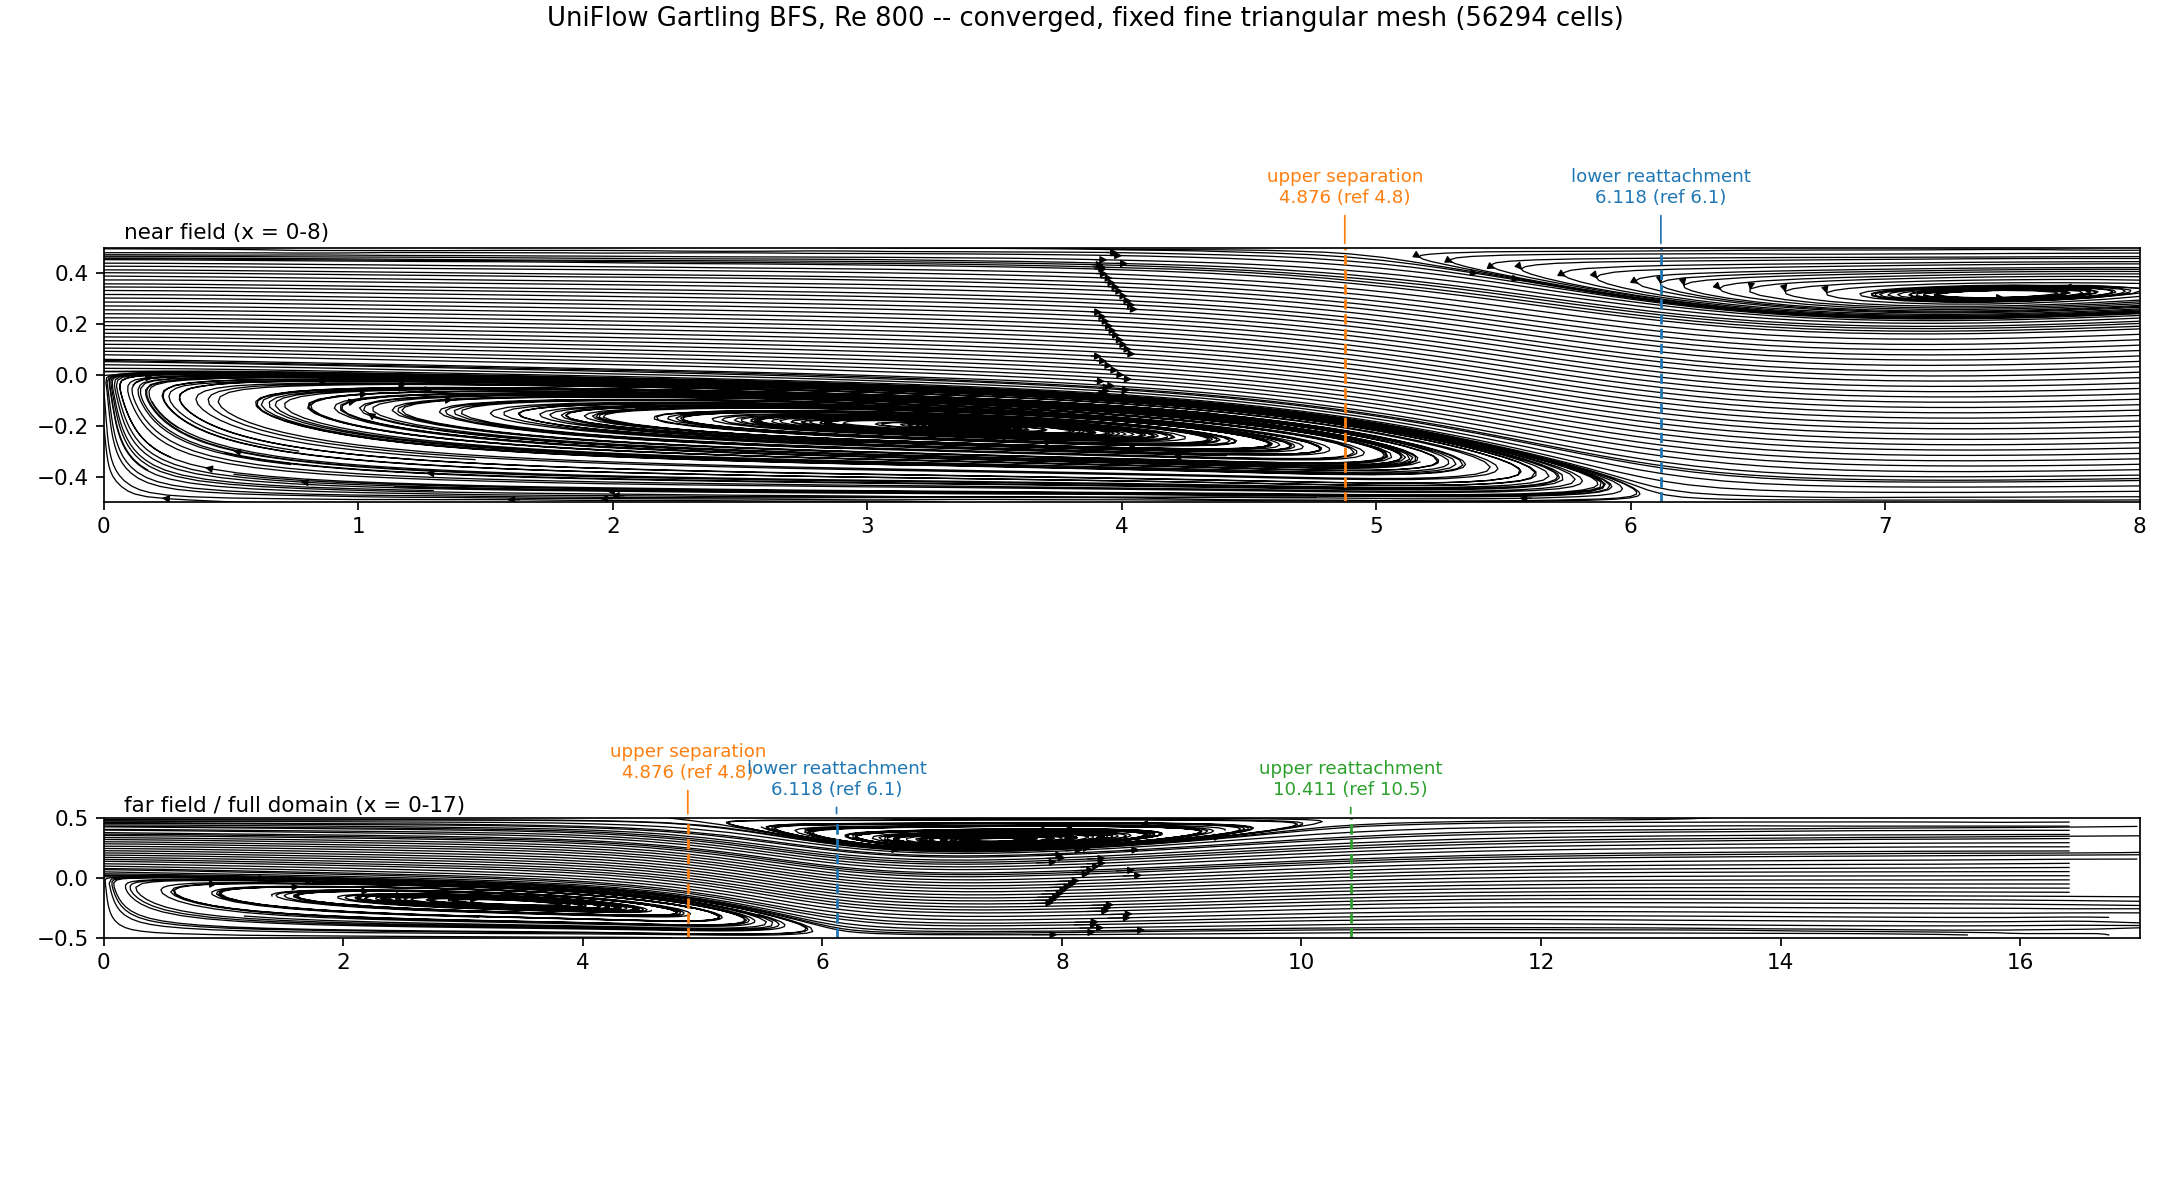
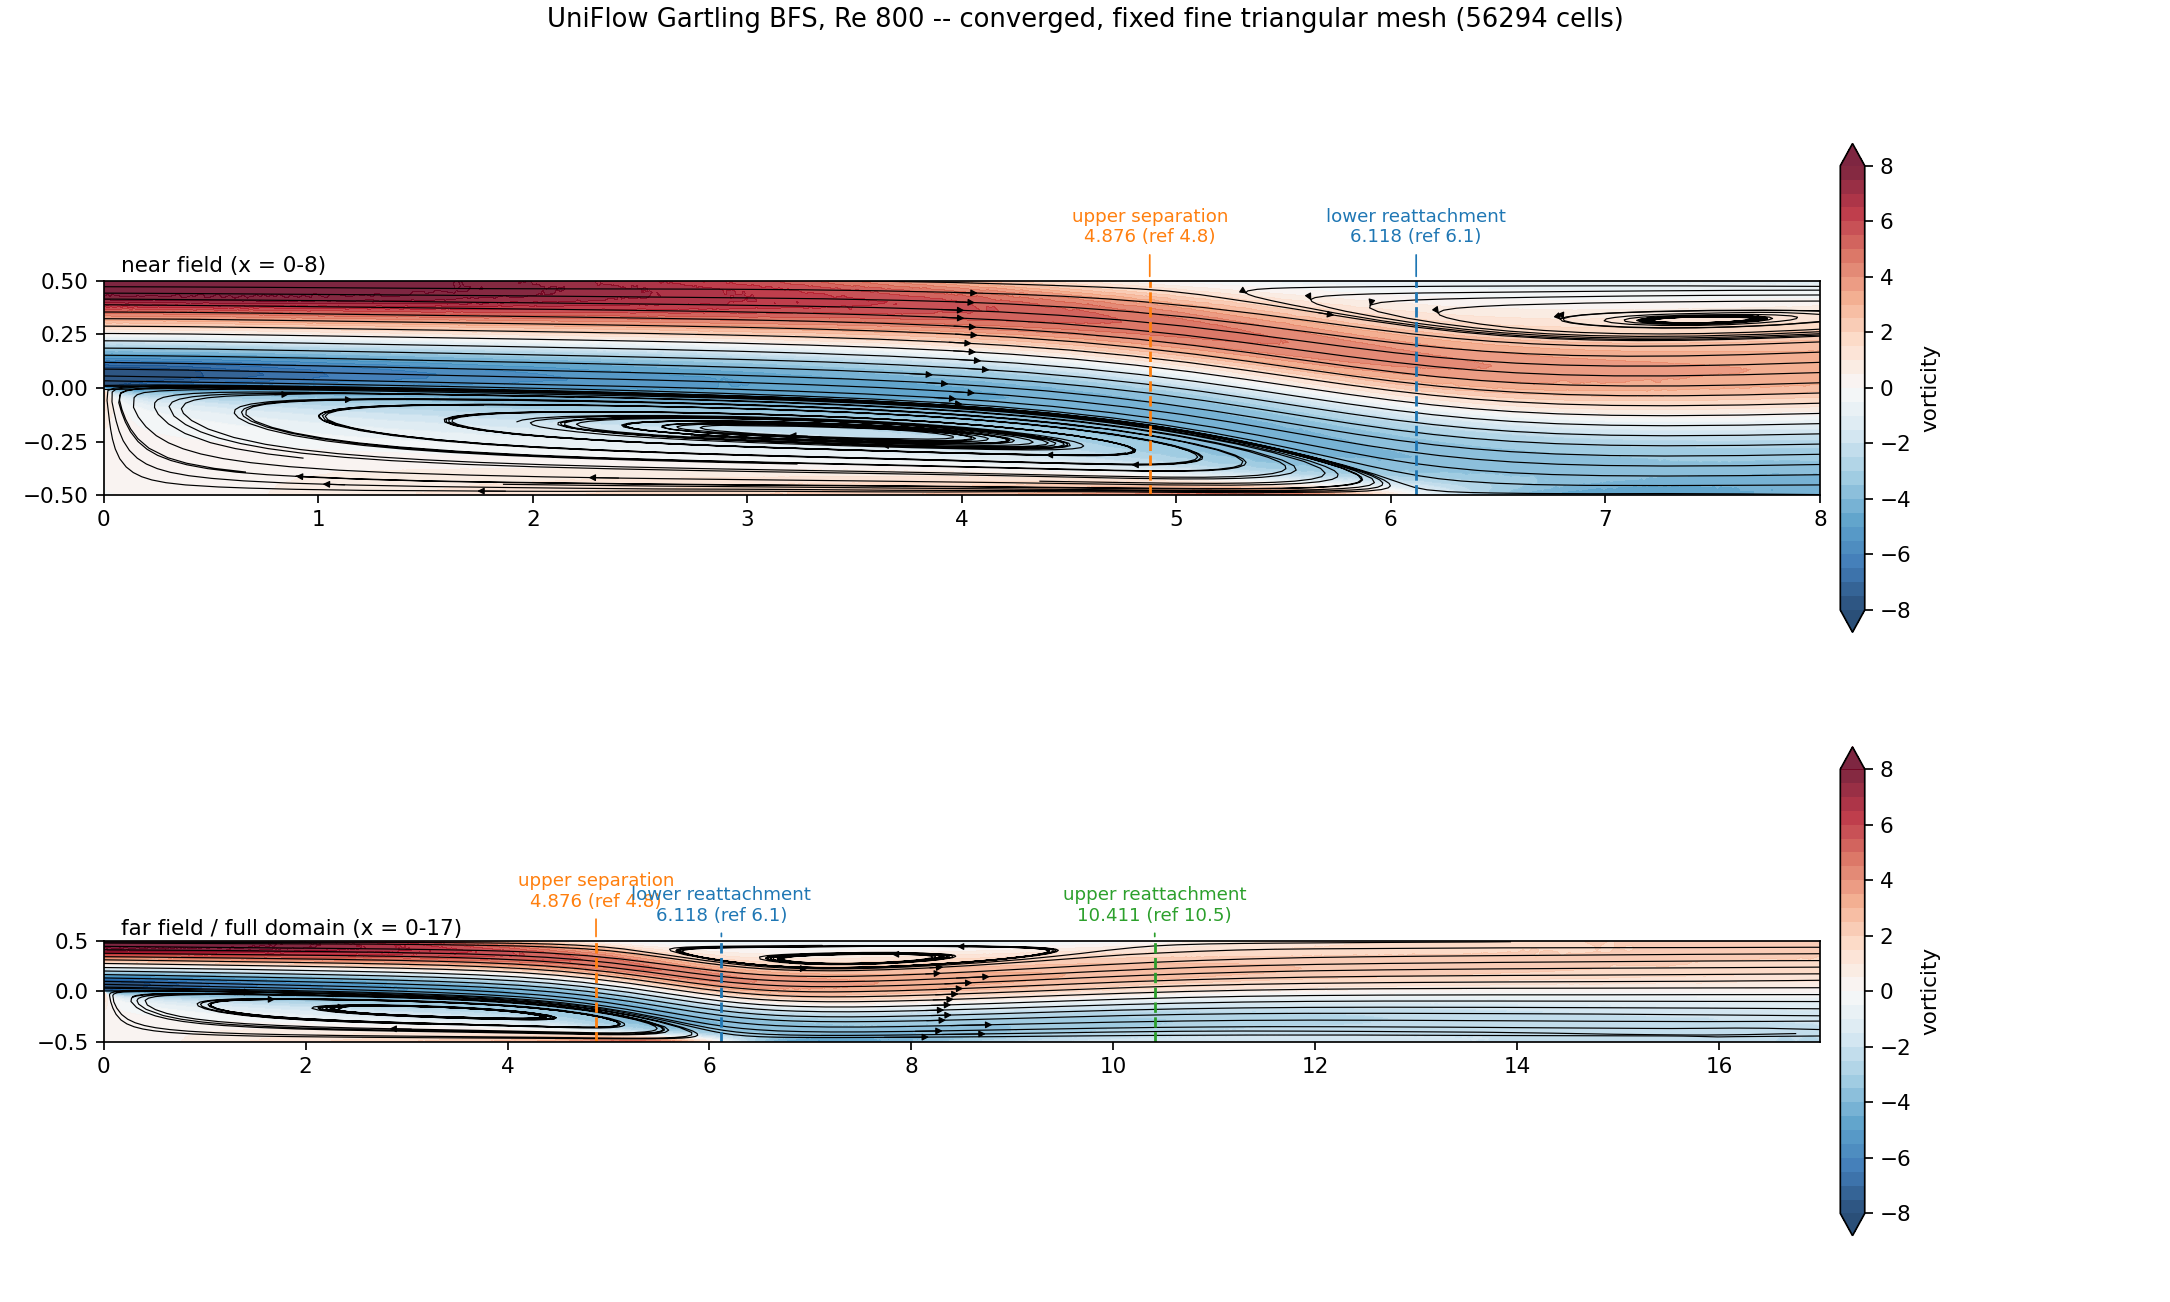
Add vorticity contours, reduce streamline density in the final BFS plot

diff --git a/plot_utility/plot_ugartling_final_streamlines.py b/plot_utility/plot_ugartling_final_streamlines.py
@@ -6,6 +6,7 @@ import matplotlib; matplotlib.use("Agg")
 import matplotlib.pyplot as plt
 from scipy.interpolate import LinearNDInterpolator
 from src.umesh import Mesh, read_gmsh22
+from src.uops import Gradient
 
 MESH = "meshes/gartling_bfs_tri_matched_fine.msh"
 FIELD = "results/ugartling_bfs_tri_matched_fine_fixed/final.npz"
@@ -16,15 +17,33 @@ d = np.load(FIELD)
 nodes, cells_raw, ctag, edges, etag, names = read_gmsh22(MESH)
 m = Mesh(nodes, cells_raw, edges, etag, names)
 u, v = d["u"], d["v"]
+cells = [c[:nv] for c, nv in zip(m.cells, m.nvert)]
+
+# vertex-averaged vorticity, same convention as the other field plots in this record
+inv = {vv: k for k, vv in names.items()}
+bt = m.btag[m.bfaces]
+yb = m.fcentre[m.bfaces][:, 1]
+uo, vo = u[m.owner[m.bfaces]], v[m.owner[m.bfaces]]
+ubv = np.where(bt == inv["Inlet"], np.clip(24.0 * yb * (0.5 - yb), 0.0, None), np.where(bt == inv["Wall"], 0.0, uo))
+vbv = np.where(bt == inv["Outlet"], vo, 0.0)
+g = Gradient(m); wc = g(v, vbv)[:, 0] - g(u, ubv)[:, 1]
+nv_ = len(nodes); ws = np.zeros(nv_); Wv = np.zeros(nv_)
+for c, vol, ww in zip(cells, m.vol, wc): ws[c] += vol; Wv[c] += vol * ww
+Wv /= ws
+import matplotlib.tri as mtri
+T = mtri.Triangulation(nodes[:, 0], nodes[:, 1], triangles=np.array(cells))
+LEV = np.linspace(-8, 8, 33)
 
 def panel(ax, xlo, xhi, density):
+    cf = ax.tricontourf(T, np.clip(Wv, LEV[0], LEV[-1]), LEV, cmap="RdBu_r", extend="both", alpha=0.85)
     x = np.linspace(xlo, xhi, int(500 * (xhi - xlo) / 17) + 300); y = np.linspace(-0.5, 0.5, 140)
     X, Y = np.meshgrid(x, y)
     Ui = LinearNDInterpolator(m.centroid, u)(X, Y); Vi = LinearNDInterpolator(m.centroid, v)(X, Y)
-    ax.streamplot(X, Y, np.nan_to_num(Ui), np.nan_to_num(Vi), color="k", density=density, linewidth=0.6, arrowsize=0.7, broken_streamlines=False)
+    ax.streamplot(X, Y, np.nan_to_num(Ui), np.nan_to_num(Vi), color="k", density=density, linewidth=0.55, arrowsize=0.65, broken_streamlines=False)
     ax.set_xlim(xlo, xhi); ax.set_ylim(-0.5, 0.5); ax.set_aspect("equal")
+    return cf
 
-fig, axes = plt.subplots(2, 1, figsize=(14, 7.6))
+fig, axes = plt.subplots(2, 1, figsize=(14, 8.4))
 
 def mark(ax, x, label, ref, color, y=1.14):
     ax.axvline(x, color=color, ls="--", lw=1.3)
@@ -33,16 +52,18 @@ def mark(ax, x, label, ref, color, y=1.14):
                 color=color, fontsize=8.5, ha="center", va="bottom",
                 arrowprops=dict(arrowstyle="-", color=color, lw=0.8))
 
-panel(axes[0], 0, 8, 1.6)
+cf0 = panel(axes[0], 0, 8, 0.75)
 mark(axes[0], UPPER_SEP, "upper separation", REF_UPPER_SEP, "C1", y=1.16)
 mark(axes[0], LOWER_REATT, "lower reattachment", REF_LOWER, "C0", y=1.16)
 axes[0].text(0.01, 1.02, "near field (x = 0-8)", transform=axes[0].transAxes, fontsize=10, va="bottom")
+plt.colorbar(cf0, ax=axes[0], shrink=0.85, pad=0.01, label="vorticity")
 
-panel(axes[1], 0, 17, 1.0)
+cf1 = panel(axes[1], 0, 17, 0.55)
 mark(axes[1], UPPER_SEP, "upper separation", REF_UPPER_SEP, "C1", y=1.30)
 mark(axes[1], LOWER_REATT, "lower reattachment", REF_LOWER, "C0", y=1.16)
 mark(axes[1], UPPER_REATT, "upper reattachment", REF_UPPER_REATT, "C2", y=1.16)
 axes[1].text(0.01, 1.02, "far field / full domain (x = 0-17)", transform=axes[1].transAxes, fontsize=10, va="bottom")
+plt.colorbar(cf1, ax=axes[1], shrink=0.85, pad=0.01, label="vorticity")
 
 fig.suptitle("UniFlow Gartling BFS, Re 800 -- converged, fixed fine triangular mesh (56294 cells)", fontsize=12, y=0.995)
 plt.tight_layout(rect=[0, 0, 1, 0.98], h_pad=4.5)
